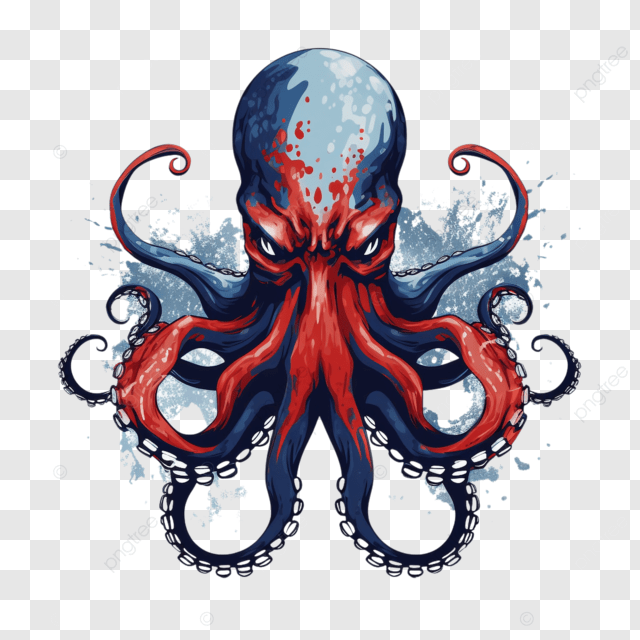
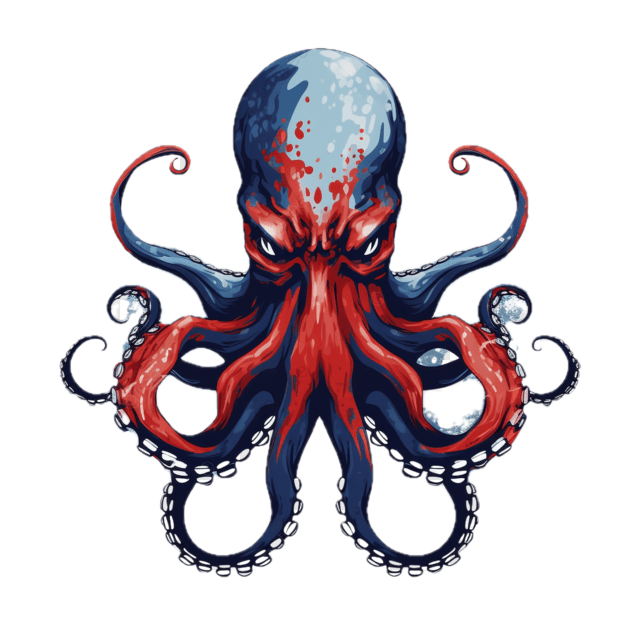
Brighter octopus on cert card: higher opacity, brightness filter

diff --git a/app.js b/app.js
@@ -884,7 +884,7 @@ function renderCerts() {
       <div class="cert-card" style="position:relative;width:100%;height:200px;transition:transform 0.6s;transform-style:preserve-3d;">
         <div style="position:absolute;inset:0;backface-visibility:hidden;border-radius:14px;overflow:hidden;background:linear-gradient(135deg,${bgColor},${bgColor}dd,#0f1923);border:1px solid rgba(255,255,255,0.1);padding:16px;display:flex;flex-direction:column;justify-content:space-between;box-shadow:0 8px 32px rgba(0,0,0,0.3);">
           <div style="position:absolute;inset:0;background:linear-gradient(135deg,rgba(255,255,255,0.1) 0%,transparent 50%,rgba(255,255,255,0.05) 100%);pointer-events:none;border-radius:14px;"></div>
-          <img src="octopus.png" style="position:absolute;right:5px;bottom:5px;opacity:0.3;width:110px;height:110px;pointer-events:none;object-fit:contain;">
+          <img src="octopus.png" style="position:absolute;right:5px;bottom:5px;opacity:0.5;width:110px;height:110px;pointer-events:none;object-fit:contain;filter:brightness(1.4) saturate(1.3);">
           <div style="display:flex;justify-content:space-between;align-items:flex-start;position:relative;">
             <div style="background:rgba(255,255,255,0.15);backdrop-filter:blur(4px);padding:4px 10px;border-radius:6px;font-weight:900;font-size:0.7rem;color:#fff;letter-spacing:1.5px;">${c.agency||'DIVE'}</div>
             <div style="font-size:0.55rem;color:rgba(255,255,255,0.5);text-align:right;">${c.date||''}</div>